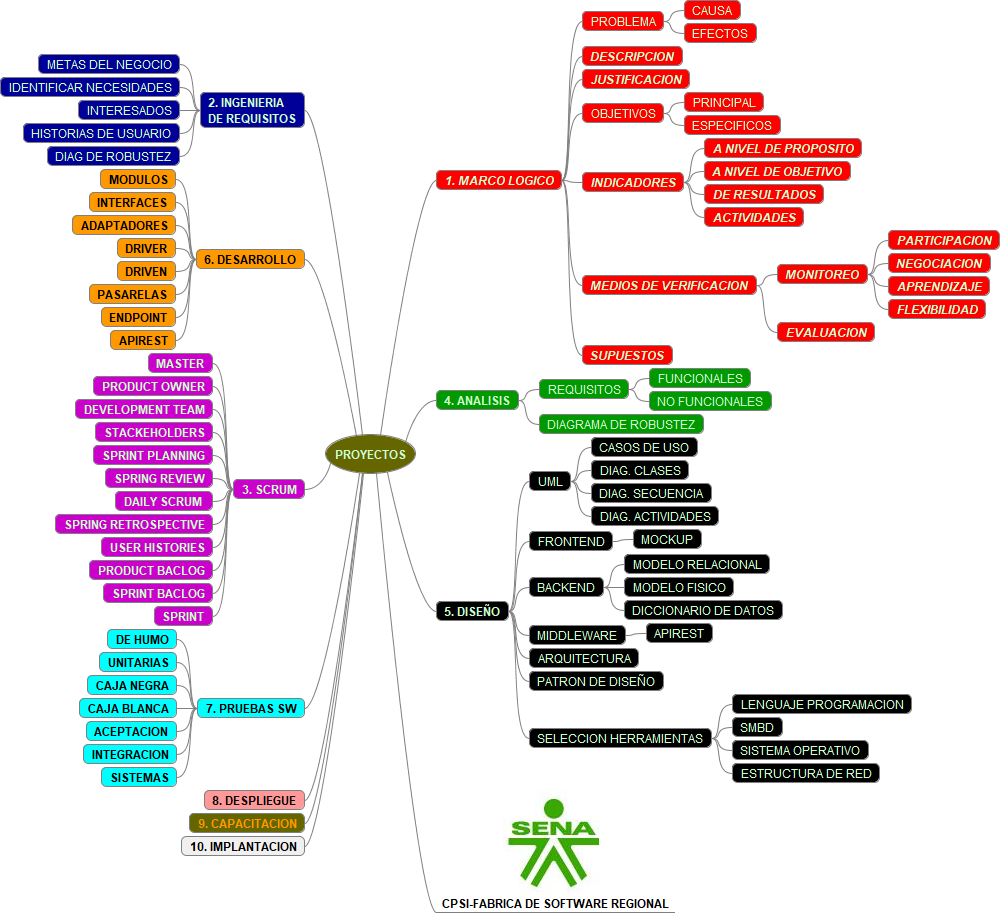
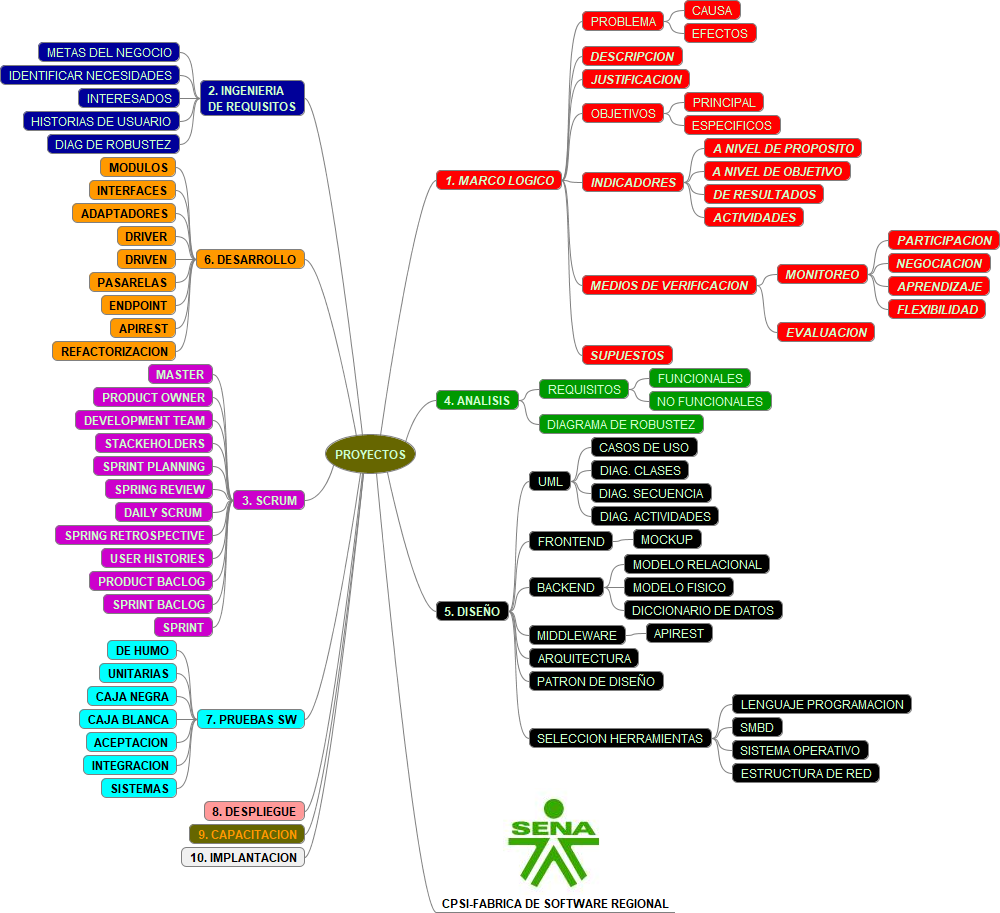
.

Changed region(s): [[0.0, 0.0307, 0.372, 0.9507]]

diff --git a/PROYECTOS.mm b/PROYECTOS.mm
@@ -182,6 +182,10 @@
 <edge COLOR="#808080" STYLE="bezier" WIDTH="thin"/>
 <font BOLD="true" NAME="SansSerif" SIZE="12"/>
 </node>
+<node BACKGROUND_COLOR="#ff9900" CREATED="1725731180856" ID="ID_721841111" MODIFIED="1725731212979" STYLE="bubble" TEXT="REFACTORIZACION">
+<edge COLOR="#808080" STYLE="bezier" WIDTH="thin"/>
+<font BOLD="true" NAME="SansSerif" SIZE="12"/>
+</node>
 </node>
 <node BACKGROUND_COLOR="#cc00cc" COLOR="#ccffcc" CREATED="1725723119828" ID="ID_615504264" MODIFIED="1725726888315" POSITION="left" STYLE="bubble" TEXT="3. SCRUM">
 <font BOLD="true" NAME="SansSerif" SIZE="12"/>
